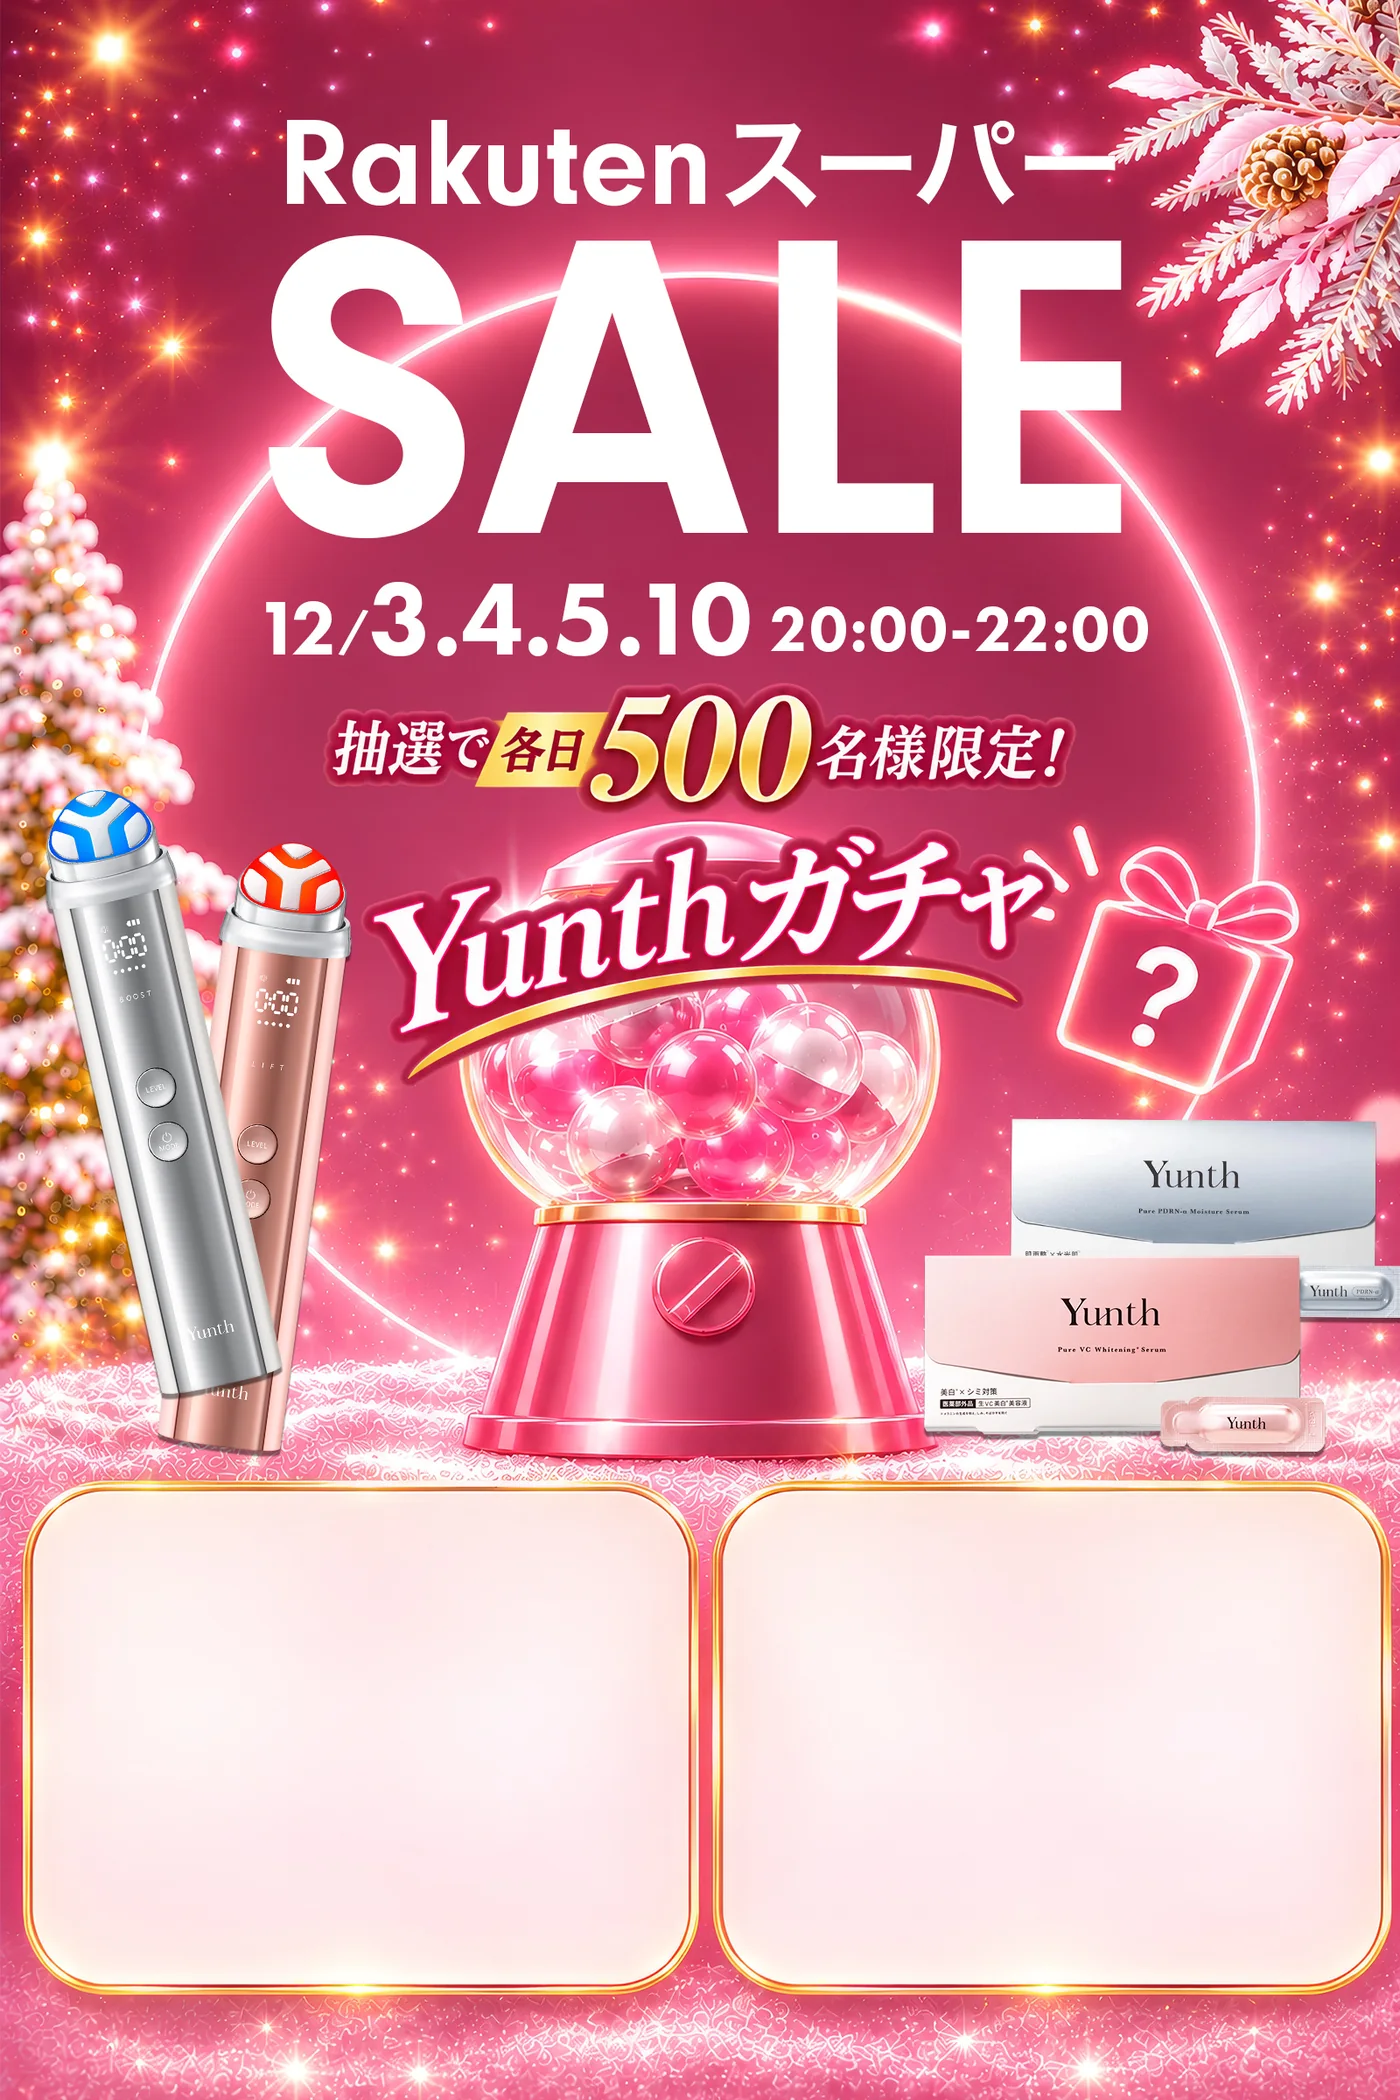
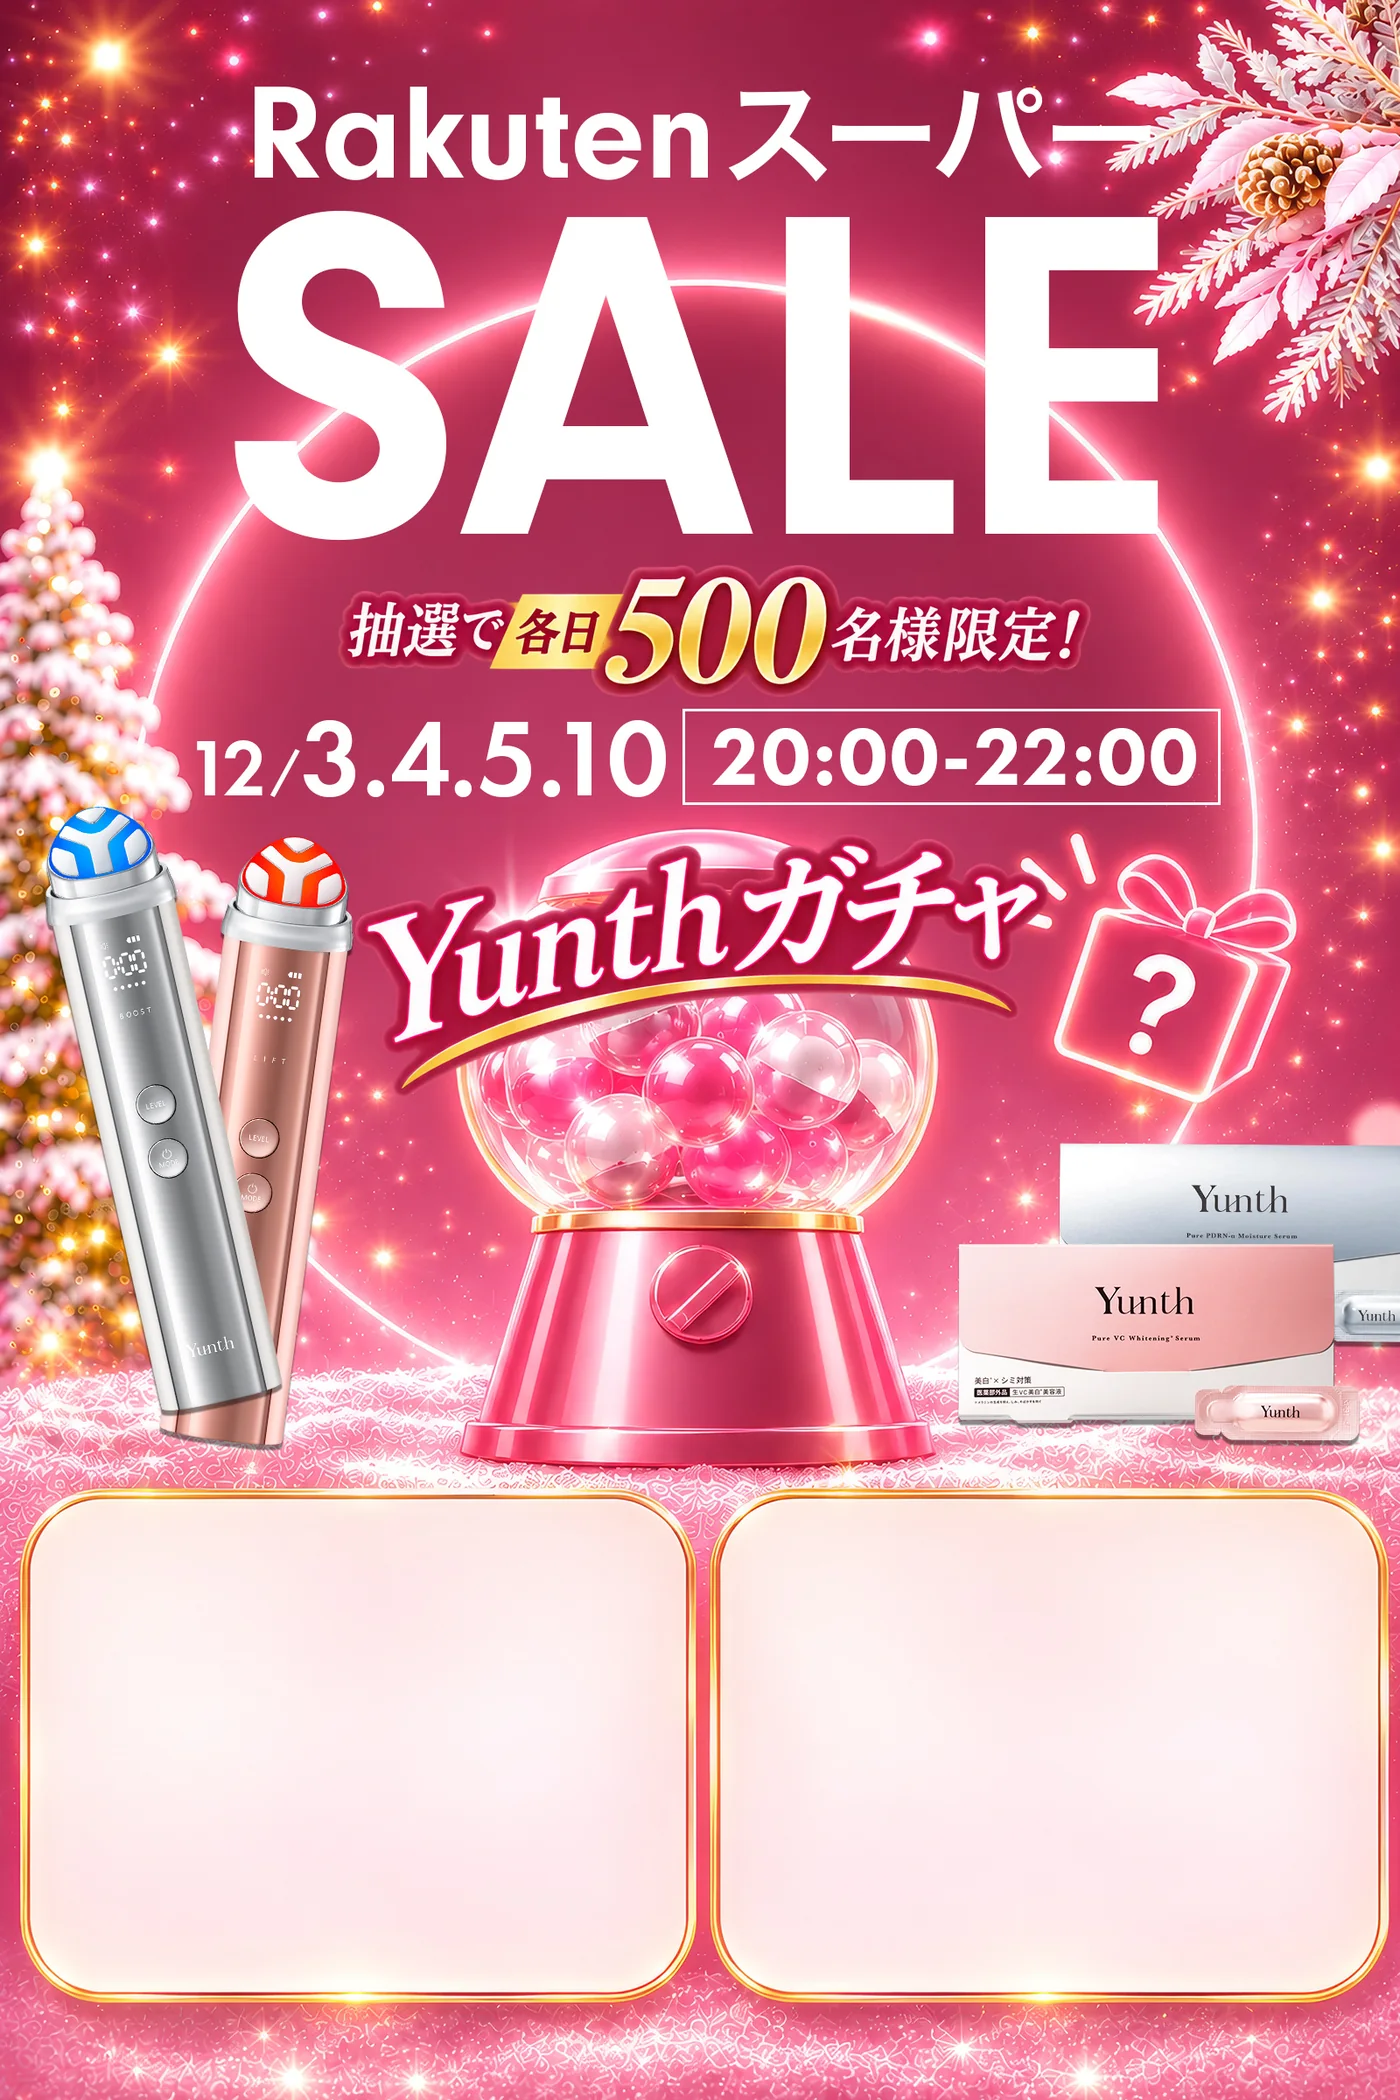
feat: FV画像を差し替え

diff --git a/index.html b/index.html
@@ -10,7 +10,7 @@
 <link rel="preconnect" href="https://fonts.googleapis.com">
 <link rel="preconnect" href="https://fonts.gstatic.com" crossorigin>
 <link rel="stylesheet" href="https://fonts.googleapis.com/css2?family=Jost:wght@300;400;500;600;700&family=Noto+Sans+JP:wght@400;500;700&display=swap">
-<link rel="stylesheet" href="style.css">
+<link rel="stylesheet" href="style.css?v=2">
 </head>
 <body>
 
@@ -33,7 +33,7 @@
 
   <!-- FV: 画像の下2枠だけ文字をのせている。枠まで入った完成画像が届いたら .fv__p を2つとも消す -->
   <section class="fv" id="top">
-    <img class="fv__img" src="images/fv.webp" width="1400" height="2100" alt="Rakutenスーパー SALE 12/3・4・5・10 20:00-22:00 抽選で各日500名様限定 Yunthガチャ" fetchpriority="high">
+    <img class="fv__img" src="images/fv.webp?v=2" width="1400" height="2100" alt="Rakutenスーパー SALE 抽選で各日500名様限定 12/3・4・5・10 20:00-22:00 Yunthガチャ" fetchpriority="high">
     <a class="fv__p fv__p--l" href="#serum">
       <strong>美容液4種</strong>
       <span class="off"><b>20</b><span class="off__u"><i class="p">%</i><i class="o">OFF</i></span></span>

diff --git a/style.css b/style.css
@@ -70,8 +70,8 @@ sup{font-size:max(10px,.42em);font-weight:500;vertical-align:super;line-height:0
 /* ---- FV ---- */
 .fv{position:relative;container-type:inline-size;background:var(--berry)}
 .fv__img{width:100%}
-.fv__p{position:absolute;top:71.4%;height:22.5%;width:46.6%;display:flex;flex-direction:column;align-items:center;justify-content:center;text-decoration:none;text-align:center;color:var(--hot);line-height:1.2}
-.fv__p--l{left:2.4%}.fv__p--r{left:51.8%}
+.fv__p{position:absolute;top:71.6%;height:23%;width:46.6%;display:flex;flex-direction:column;align-items:center;justify-content:center;text-decoration:none;text-align:center;color:var(--hot);line-height:1.2}
+.fv__p--l{left:2.3%}.fv__p--r{left:51.6%}
 .fv__p .off+.q{margin-top:0}
 .fv__p strong{font-weight:700;font-size:5.2cqw;letter-spacing:.04em;color:var(--ink);white-space:nowrap}
 .fv__p .off{font-size:15.4cqw;margin:1.6cqw 0 1.2cqw}
